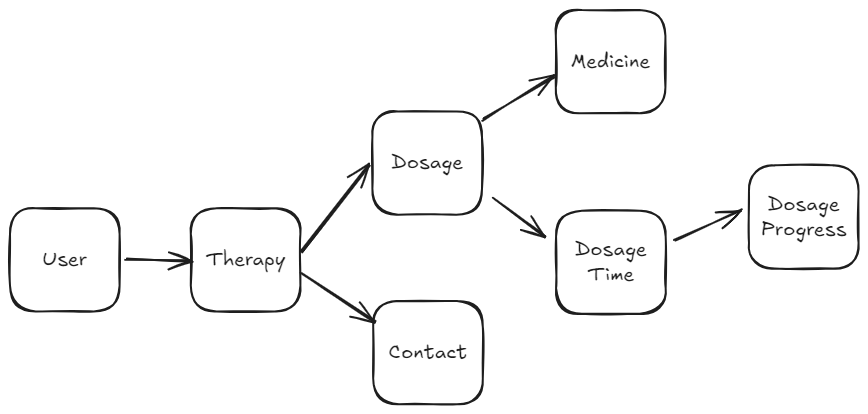
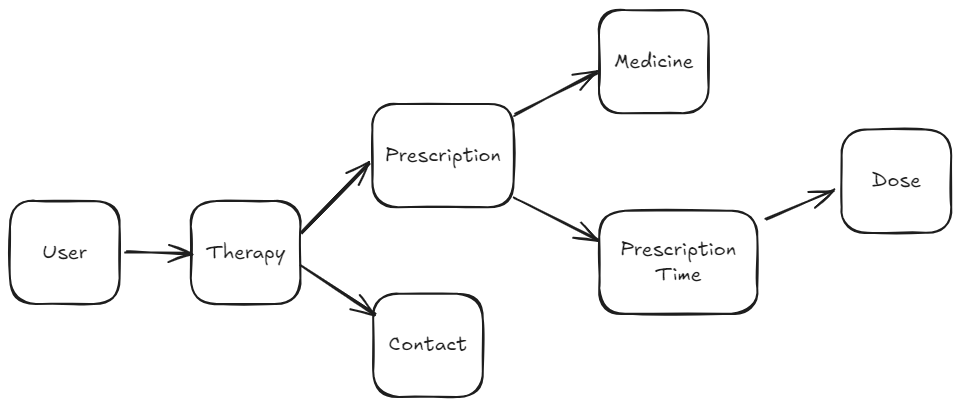
Refine model; Design API

Changed region(s): [[0.3422, 0.0, 0.9954, 0.798], [0.0, 0.4729, 0.5599, 1.0]]

diff --git a/README.md b/README.md
@@ -16,9 +16,9 @@ Run development:
 
 Some screenshots of the application:
 
-![](./doc/screens/Medications-1.png)
-![](./doc/screens/My%20therapies-1.png)
-![](./doc/screens/Laura%20thompson.png)
+![Main screen](./doc/screens/Medications-1.png)
+![Therapies page](./doc/screens/My%20therapies-1.png)
+![Doctor's profile](./doc/screens/Laura%20thompson.png)
 
 You can view other screenshots [in the documentation directory on this repository](./doc/screens/).
 
@@ -27,21 +27,21 @@ Visual design and prototype is also available on [Figma](https://www.figma.com/p
 ## Glossary
 
 - **User**: app user, logged into MediMemo
-- **Therapy**: represents a doctor prescription, contains one or more medicines and medication dosage. It's also linked to a contact (=doctor)
+- **Therapy**: represents a doctor prescription, contains one or more medicines and medication dosage (Prescription). It's also linked to a Contact (=doctor)
 - **Medicine**: represents a drug. It contains also the leaflet
-- **Dosage**: represents the association of a Therapy and a Medicine, where starting and ending dates are saved, linked to DosageTimes
-- **DosageTime**: represents time of taking a medicine
-- **DosageProgress**: represents a medicine taken by user, a new log is saved every time user takes a medicine. It contains info about related datetime, and related DosageTime
+- **Prescription**: represents the association of a Therapy and a Medicine, where starting and ending dates are saved, linked to PrescriptionTimes
+- **PrescriptionTime**: represents time of taking a medicine
+- **Dose**: represents a reminder, a medicine to be taken by user, and records whether it has been taken. It's related to Prescription and PrescriptionTime
 - **Contact**: represents a doctor's profile
 
 ## Domain model
 
 - User -> has many -> Therapy
-- Therapy -> has many -> Dosage- medication represents an association between a therapy and a medicine
+- Therapy -> has many -> Prescription - Prescription represents an association between a Therapy and a Medicine
 - Therapy -> has one -> Contact
-- Dosage-> has one -> Medicine
-- Dosage -> has many -> DosageTime
-- DosageTime -> has one -> DosageProgress
+- Prescription-> has one -> Medicine
+- Prescription -> has many -> PrescriptionTime
+- PrescriptionTime -> has many -> Dose
 
 ![](./doc/assets/domain-model.png)
 
@@ -102,8 +102,43 @@ This use case describes the first access as a new user
 
 ## API
 
+### Login and account
+
 - `POST /login`
 - `GET /user`
-- `GET /dosage-time`: returns a list of dosage times for current date
+- `PUT /user`: modify user profile
 
-TODO
+### Reminders
+
+- `GET /doses`: returns the list of today reminders (related to PrescriptionTime)
+- `PUT /doses/:id`: allow checking/unchecking a reminder
+
+### Manage therapies
+
+- `GET /therapies`: returns the list of therapies for current user
+- `POST /therapies`: allows to save a new therapy
+- `GET /therapies/:id`: returns a therapy and its prescriptions
+- `PUT /therapies/:id`: allows to change a therapy
+- `DELETE /therapies/:id`: removes a therapy
+- `GET /therapies/:therapyId/prescriptions`: returns prescriptions associated to a therapy
+- `POST /prescriptions`: saves a new prescription, related to a therapy
+- `GET /prescriptions/:id`: returns a prescription and associated prescription times
+- `PUT /prescriptions/:id`: changes a prescription
+- `DELETE /prescriptions/:id`: removes a prescription
+- `GET /prescriptions/:id/prescription-times`: returns prescription times of a prescription
+- `POST /prescription-times`: saves a new prescription time, related to a prescription
+- `PUT /prescription-times/:id`: changes a prescription time
+- `DELETE /prescription-times/:id`: removes a prescription time
+
+### Medicines
+
+- `GET /medicines`: returns a list of medicines
+- `GET /medicines/:id`: returns leaflet of a medicine
+
+### Contacts
+
+- `GET /contacts`: returns list of doctors
+- `POST /contacts`: adds a new doctor
+- `GET /contacts/:id`: returns a doctor
+- `PUT /contacts/:id`: modifies doctor's info
+- `DELETE /contacts/:id`: removes a doctor
